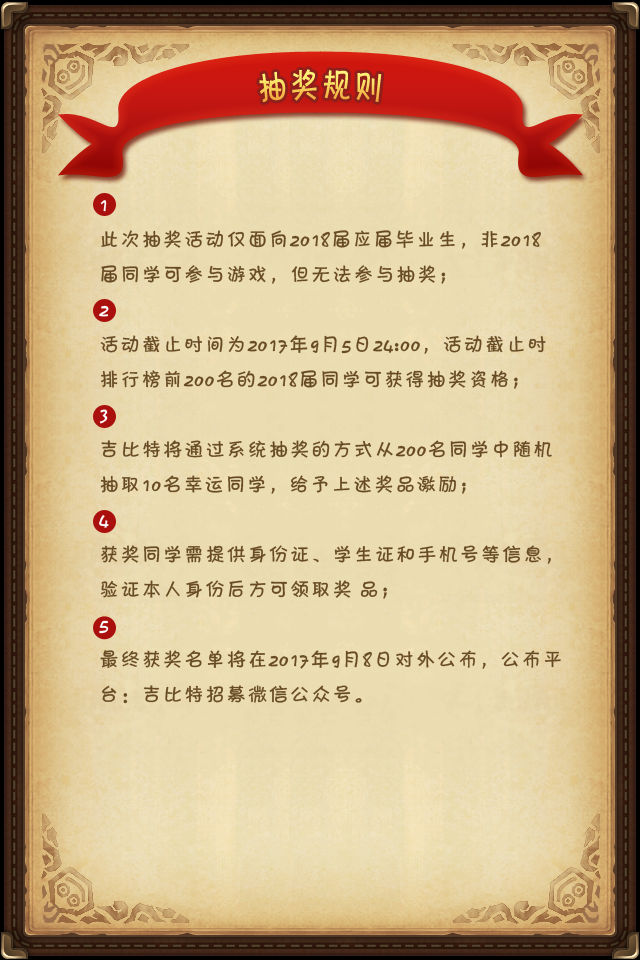
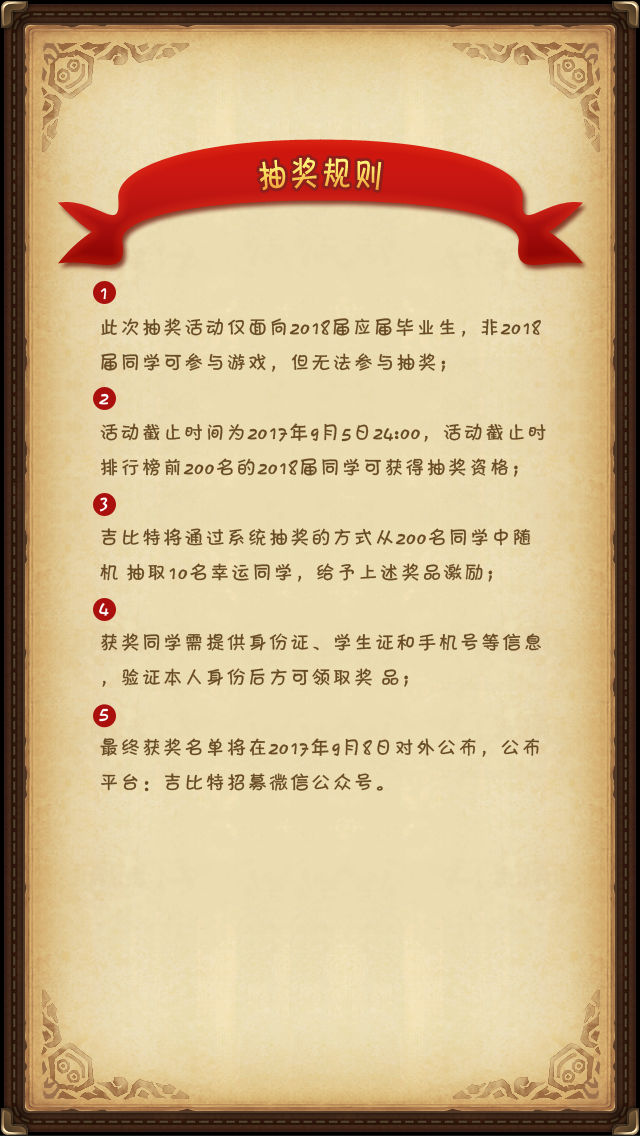
test for 1136

diff --git a/game.js b/game.js
@@ -193,8 +193,6 @@ var op_list = [];
 var start_time = 0;
 var delta_time = 0;
 var last_time = 0;
-var frame_time = 0;
-var frame_time_limit = 25; // 30fps
 var last_touch_time = 0;
 var touch_time_interval = 100;
 
@@ -617,19 +615,11 @@ function clear_scene()
 function gameLoop()
 {
     var cur_time = Date.now();
-    var del = cur_time - last_time;
+    delta_time = cur_time - last_time;
     last_time = cur_time;        
 
     //Loop this function 60 times per second
     requestAnimationFrame(gameLoop);
-
-    // Limit frame rate
-    frame_time += del;
-    if (frame_time < frame_time_limit)
-        return;
-
-    delta_time = frame_time;
-    frame_time = 0;
 
     //Update the current game state
     state();
@@ -680,7 +670,7 @@ function show_gift_window()
     fill_sprite(bg);
     stage.addChild(bg);
     var interval = 0.2;
-    var yoff = 0.88;
+    var yoff = 0.75;
 
     // Create buttons
     create_button(bg, btn_rule_image, 1,
@@ -774,7 +764,7 @@ function show_game_over_window()
     var btn_interval = 0.1;
 
     var score_info = new Sprite(resources[score_info_image].texture);
-    score_info.x = canvas_width * 0.25;
+    score_info.x = canvas_width * 0.28;
     score_info.y = canvas_height * 0.3;
     stage.addChild(score_info);
 
@@ -819,7 +809,7 @@ function show_game_over_window()
 
     this_score_text = new PIXI.extras.BitmapText(score.toString(), { font: '76px Aharoni'});
     best_score_text = new PIXI.extras.BitmapText(user_info.max_score.toString(), { font: '76px Aharoni'});
-    var xoff = 0.6;
+    var xoff = 0.63;
     var yoff = 0.28;
     var yinterval = 0.06;
     this_score_text.x = xoff * canvas_width;

diff --git a/index.html b/index.html
@@ -64,7 +64,7 @@
 <script>
 stage = new PIXI.Container();
 canvas_width = 640;
-canvas_height = 960; 
+canvas_height = 1136; 
 user_info = {
     id : null,
     name : '',
